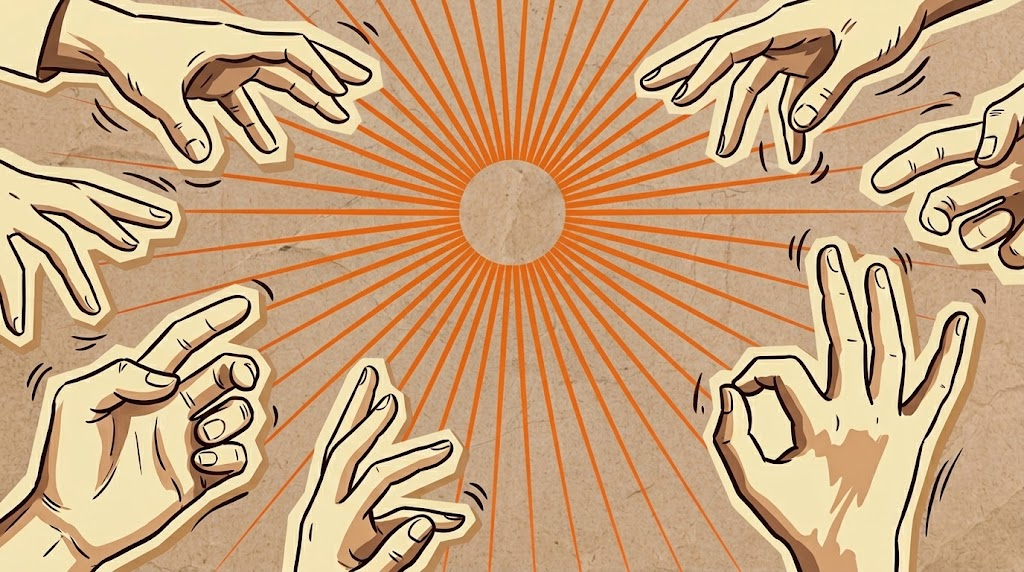
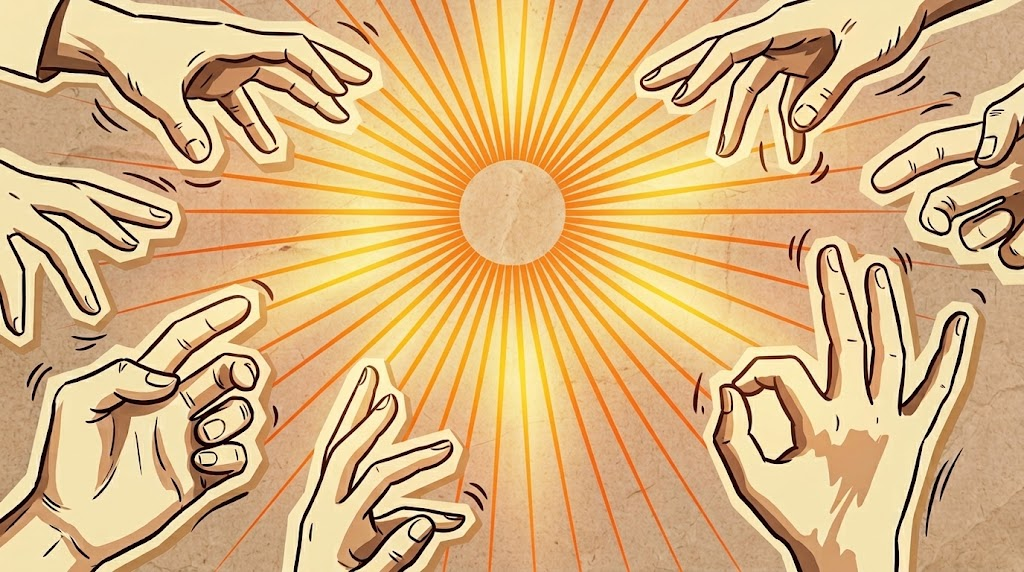
AVANCE_1_NOVIEMBRE_7

diff --git a/SGV_mismary/templates/reporte_gastos.html b/SGV_mismary/templates/reporte_gastos.html
@@ -16,35 +16,27 @@ Costos | MisMary
         <div class="stat stat-negativo">
             <span class="etiqueta">Total de costos</span>
             <span class="valor">$ {{ gastos.total|floatformat:"0g" }}</span>
-            <span class="nota">Pedidos recibidos + gastos hormiga</span>
         </div>
 
         <div class="stat">
             <span class="etiqueta">Pedidos recibidos</span>
             <span class="valor">$ {{ gastos.total_pedidos|floatformat:"0g" }}</span>
-            <span class="nota">Mercancía que ya llegó</span>
         </div>
 
         <div class="stat">
             <span class="etiqueta">Gastos hormiga</span>
             <span class="valor">$ {{ gastos.total_hormiga|floatformat:"0g" }}</span>
-            <span class="nota">Gastos pequeños registrados a mano</span>
         </div>
 
         <div class="stat stat-aparte">
             <span class="etiqueta">Pedidos por recibir</span>
             <span class="valor">$ {{ gastos.total_pendientes|floatformat:"0g" }}</span>
-            <span class="nota">
-                {{ gastos.pendientes|length }} pedido{{ gastos.pendientes|length|pluralize }} pendiente{{ gastos.pendientes|length|pluralize }}.
-                No cuentan como costo todavía.
-            </span>
         </div>
 
         <div class="stat stat-aparte">
             <span class="etiqueta">Por cobrar a clientes</span>
             <span class="valor">$ {{ por_cobrar|floatformat:"0g" }}</span>
             <span class="nota">
-                Lo que los clientes aún deben. No suma al total de costos.
                 <a class="link-fila no-imprimir" href="{% url 'reporte_clientes_deuda' %}">Ver clientes</a>
             </span>
         </div>

diff --git a/SGV_mismary/templates/home.html b/SGV_mismary/templates/home.html
@@ -113,7 +113,7 @@ a.tile:active { transform: scale(0.98); }
     background: #FF6B35; color: #fff; font-weight: 600; font-size: 14px; position: relative; z-index: 1;
 }
 
-/* Pedidos: el sticker (pedidos_tarjeta.png) va SIN tarjeta detrás.
+/* Pedidos: el sticker (pedido_home.png) va SIN tarjeta detrás.
    Es un poquito más ancho que la celda para que se vea grande. */
 .t-pedidos {
     padding: 0;
@@ -133,11 +133,12 @@ a.tile:active { transform: scale(0.98); }
     pointer-events: none;
 }
 a.t-pedidos:hover { box-shadow: none; }
-/* Etiqueta encima del sticker: "Pendientes (número)" */
+/* Etiqueta encima del sticker: "Pendientes (número)".
+   Para moverla: left = más a la izquierda cuanto menor; bottom = más abajo cuanto menor. */
 .t-pedidos .chip-pedidos {
     position: absolute;
-    left: 30px;
-    bottom: 30px;
+    left: 22px;
+    bottom: 22px;
     display: flex;
     align-items: center;
     gap: 7px;
@@ -206,7 +207,7 @@ a.t-pedidos:hover { box-shadow: none; }
 .t-gastos .t-icono svg { width: 50px; height: 50px; }
 
 /* Grupos (solo superusuario): franja LARGA de 4 columnas.
-   La imagen (grupos_tarjeta.png) trae el mismo café de la franja y sus extremos
+   La imagen (grupos_home.jpeg) trae el mismo café de la franja y sus extremos
    se difuminan, así que se ve como una sola pieza. El ícono va a la izquierda. */
 .t-grupos {
     grid-column: span 4;

diff --git a/SGV_mismary/templates/list_reembolsos.html b/SGV_mismary/templates/list_reembolsos.html
@@ -112,7 +112,7 @@
 <div class="reembolsos-contenedor">
     <div class="reembolsos-encabezado">
         <div class="enc-titulo"><img class="stk-lista" src="{% static 'stk_reembolso.png' %}" alt="">
-        <div><h1>Reembolsos  <span class="nav-icono"><svg viewBox="0 0 24 24" aria-hidden="true"><circle cx="12.2" cy="12" r="8.6"/><path d="M8.5 12.3 L12.4 8.3"/><path d="M8.5 12.3 L12.5 16.3"/><path d="M8.8 12.4 L16.2 12.5"/></svg></span></h1>
+        <div><h1>Reembolsos</h1>
         <p>Consulta quién reembolsó, cuándo y qué productos.</p></div></div>
     </div>
 

diff --git a/SGV_mismary/templates/layout/base.html b/SGV_mismary/templates/layout/base.html
@@ -12,6 +12,7 @@
     <link rel="preconnect" href="https://fonts.googleapis.com">
     <link rel="preconnect" href="https://fonts.gstatic.com" crossorigin>
     <link href="https://fonts.googleapis.com/css2?family=Fredoka:wght@500;600;700&family=Quicksand:wght@400;500;600;700&display=swap" rel="stylesheet">
+    <link rel="icon" type="image/png" href="{% static 'logo.jpeg' %}">
 
     <style>
         * {

diff --git a/accounts/templates/login.html b/accounts/templates/login.html
@@ -11,6 +11,7 @@
     <link rel="preconnect" href="https://fonts.googleapis.com">
     <link rel="preconnect" href="https://fonts.gstatic.com" crossorigin>
     <link href="https://fonts.googleapis.com/css2?family=Fredoka:wght@400;500;600;700&display=swap" rel="stylesheet">
+    <link rel="icon" type="image/png" href="{% static 'logo.jpeg' %}">
 
     <style>
 

diff --git a/SGV_mismary/views.py b/SGV_mismary/views.py
@@ -555,7 +555,7 @@ def list_venta(request):
     else:
         ventas = Venta.objects.all()
 
-    ventas = ventas.select_related('cliente', 'reembolso')
+    ventas = ventas.select_related('cliente', 'reembolso').order_by('-fecha')
 
     return render(request, 'list_ventas.html', {
         'ventas': ventas,
